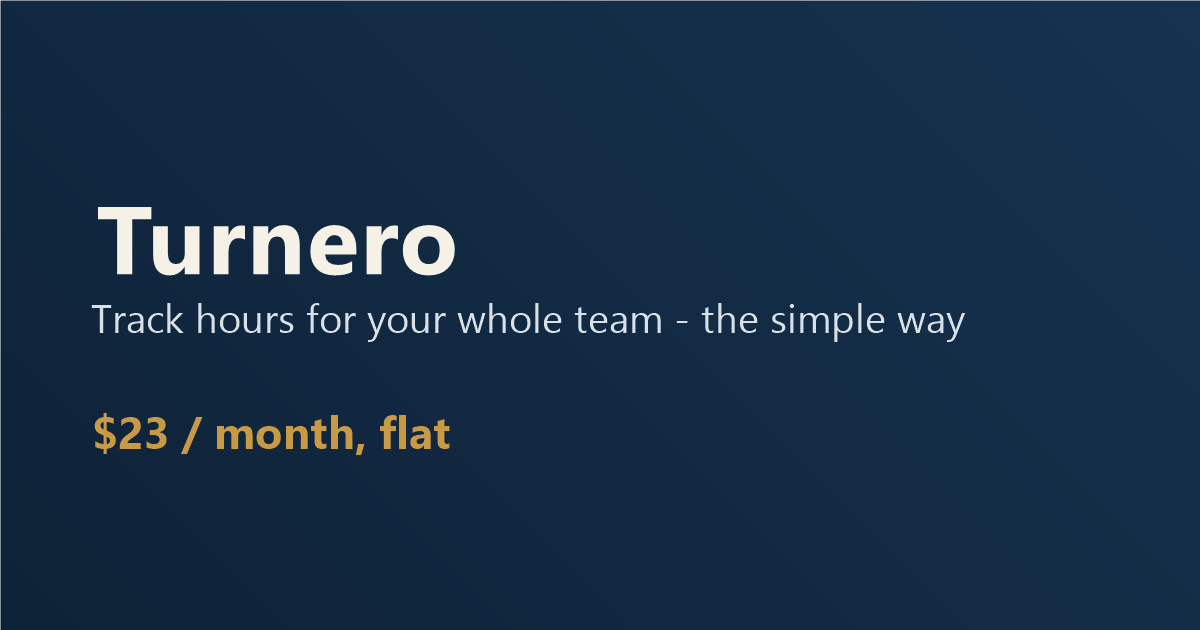
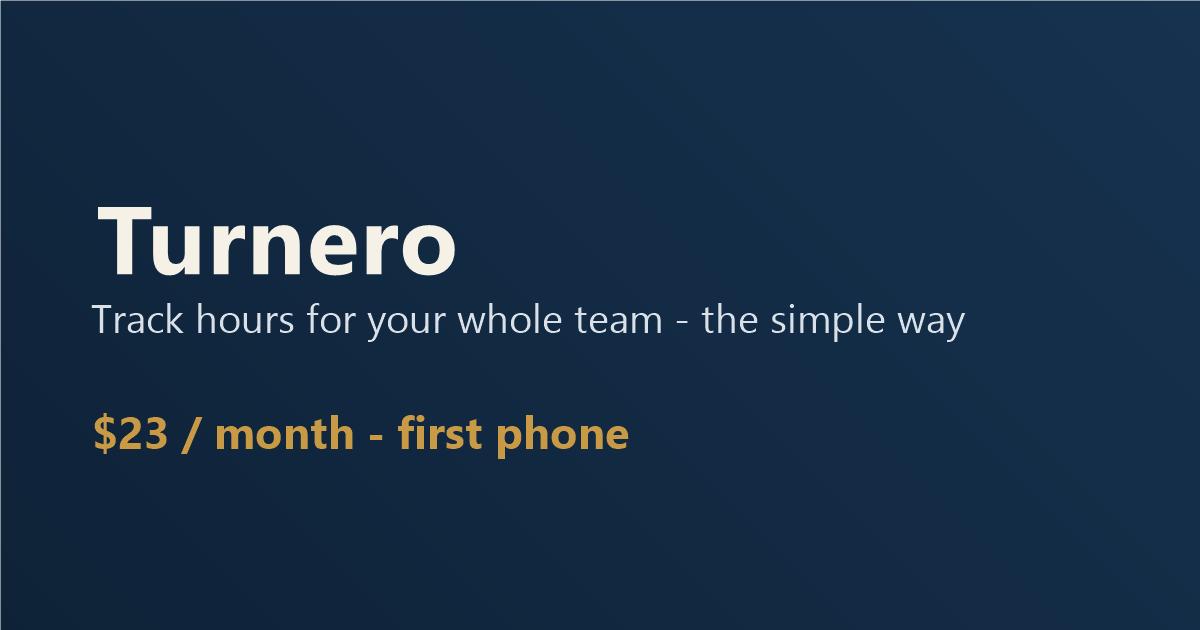
Actualiza precio a modelo por telefono (23 primero, 19 los siguientes hasta 5), quita 'gratis' y llave maestra del texto publico, agrega boton de WhatsApp para servicio a cliente

Changed region(s): [[0.2775, 0.6635, 0.5242, 0.7238]]

diff --git a/venta/index.html b/venta/index.html
@@ -8,13 +8,13 @@
 <meta property="og:type" content="website">
 <meta property="og:url" content="https://aymorcorp.github.io/turnero/venta/">
 <meta property="og:title" content="Turnero — Simple Time Tracking & Payroll Reports">
-<meta property="og:description" content="Track hours for your whole team — without the payroll-software headache. $23/month flat, no per-employee fees.">
+<meta property="og:description" content="Track hours for your whole team — without the payroll-software headache. $23/month for your first phone.">
 <meta property="og:image" content="https://aymorcorp.github.io/turnero/venta/og-image.png">
 <meta property="og:image:width" content="1200">
 <meta property="og:image:height" content="630">
 <meta name="twitter:card" content="summary_large_image">
 <meta name="twitter:title" content="Turnero — Simple Time Tracking & Payroll Reports">
-<meta name="twitter:description" content="Track hours for your whole team — without the payroll-software headache. $23/month flat, no per-employee fees.">
+<meta name="twitter:description" content="Track hours for your whole team — without the payroll-software headache. $23/month for your first phone.">
 <meta name="twitter:image" content="https://aymorcorp.github.io/turnero/venta/og-image.png">
 <style>
   :root{
@@ -171,8 +171,9 @@
       <a href="#how">How it works</a>
       <a href="#privacy">Privacy</a>
       <a href="#faq">FAQ</a>
+      <a href="#contact">Contact</a>
     </nav>
-    <a class="btn primary nav-cta" href="https://aymorcorp.github.io/turnero/">Open the app</a>
+    <a class="btn primary nav-cta" href="#pricing">Get Turnero</a>
   </div>
 </header>
 
@@ -183,10 +184,10 @@
       <h1>Track hours for your whole team — without the payroll-software headache.</h1>
       <p class="lead">Turnero is a simple time clock built for small businesses with a mix of staff: full-time, contract, and agency workers. Clock in, clock out, and send a ready-to-use report to your accountant — no accounts to set up, no server to trust with your data.</p>
       <div class="ctas">
-        <a class="btn primary" href="https://aymorcorp.github.io/turnero/">Try Turnero free</a>
+        <a class="btn primary" href="#pricing">Get Turnero — $23/mo</a>
         <a class="btn ghost" href="#how">See how it works</a>
       </div>
-      <div class="fineprint">Works on any phone, tablet, or computer — right from the browser. Nothing to install.</div>
+      <div class="fineprint">Works on any phone, tablet, or computer — right from the browser.</div>
     </div>
     <div class="hero-card">
       <div class="hero-card-inner">
@@ -223,7 +224,7 @@
     <span>⏱ Automatic lunch-break deduction</span>
     <span>🌙 Overnight shifts calculated correctly</span>
     <span>📄 Ready-to-send Excel report</span>
-    <span>🔒 PIN + owner-only master key</span>
+    <span>🔒 Secure, protected access</span>
     <span>🌐 English · Français · Español · Tagalog</span>
   </div>
 </div>
@@ -274,7 +275,7 @@
       <div class="feat">
         <div class="ic">🔐</div>
         <h3>Two levels of access</h3>
-        <p>A day-to-day PIN for managers, and a separate master key for sensitive actions — so nobody accidentally deletes payroll history.</p>
+        <p>A day-to-day PIN for managers, with an extra layer of protection for sensitive actions — so nobody accidentally deletes payroll history.</p>
       </div>
       <div class="feat">
         <div class="ic">💾</div>
@@ -349,7 +350,7 @@
     </div>
     <div class="privacy-box">
       <div class="row"><div class="ic">🔒</div><div><b>PIN for day-to-day use</b><span>Managers unlock pay rates and reports with a shared PIN you set.</span></div></div>
-      <div class="row"><div class="ic">🔐</div><div><b>Master key for the sensitive stuff</b><span>Deleting an employee with hours on file, wiping data, or restoring a backup all require a separate key — only the owner needs to know it.</span></div></div>
+      <div class="row"><div class="ic">🔐</div><div><b>Extra protection for the sensitive stuff</b><span>Deleting an employee with hours on file, wiping data, or restoring a backup all require an extra security step — only the owner can do it.</span></div></div>
       <div class="row"><div class="ic">💾</div><div><b>You control your backups</b><span>Download a full backup whenever you like — before switching phones, or just for peace of mind.</span></div></div>
     </div>
   </div>
@@ -368,16 +369,17 @@
   </div>
 </section>
 
-<section class="pricing">
+<section class="pricing" id="pricing">
   <div class="wrap">
     <div class="section-head">
       <span class="eyebrow">Pricing</span>
-      <h2>One flat price. No per-employee math.</h2>
+      <h2>Priced per phone. No per-employee math.</h2>
+      <p>However many employees you have, the price doesn't change — you only pay for how many devices you use to clock in, not how many people are on the clock.</p>
     </div>
     <div class="price-card">
       <span class="tag">Turnero Basique</span>
-      <h3>$23 <span style="font-size:15px; color:var(--muted); font-weight:600;">USD / month</span></h3>
-      <p>Flat rate per business — however many employees you have, the price doesn't change. No accounts to manage, no server, no per-seat fees like the bigger scheduling platforms charge.</p>
+      <h3>$23 <span style="font-size:15px; color:var(--muted); font-weight:600;">USD / month, first phone</span></h3>
+      <p>$19/month for each additional phone — up to 5 phones per business. Add a phone for a second location, a second shift, or a backup device, without paying full price again.</p>
       <a class="btn dark" href="#contact">Get in touch to start</a>
     </div>
   </div>
@@ -424,9 +426,9 @@
 
 <section class="cta-band" id="contact">
   <div class="wrap">
-    <h2>Ready to see it for yourself?</h2>
-    <p>Open Turnero right now — no signup, no credit card, no waiting.</p>
-    <a class="btn primary" href="https://aymorcorp.github.io/turnero/">Try Turnero free</a>
+    <h2>Ready to get Turnero for your business?</h2>
+    <p>Message us and we'll get your first phone set up — $23/month, no long contract.</p>
+    <a class="btn primary" href="https://wa.me/14384958777" target="_blank" rel="noopener">Message us on WhatsApp</a>
   </div>
 </section>
 
